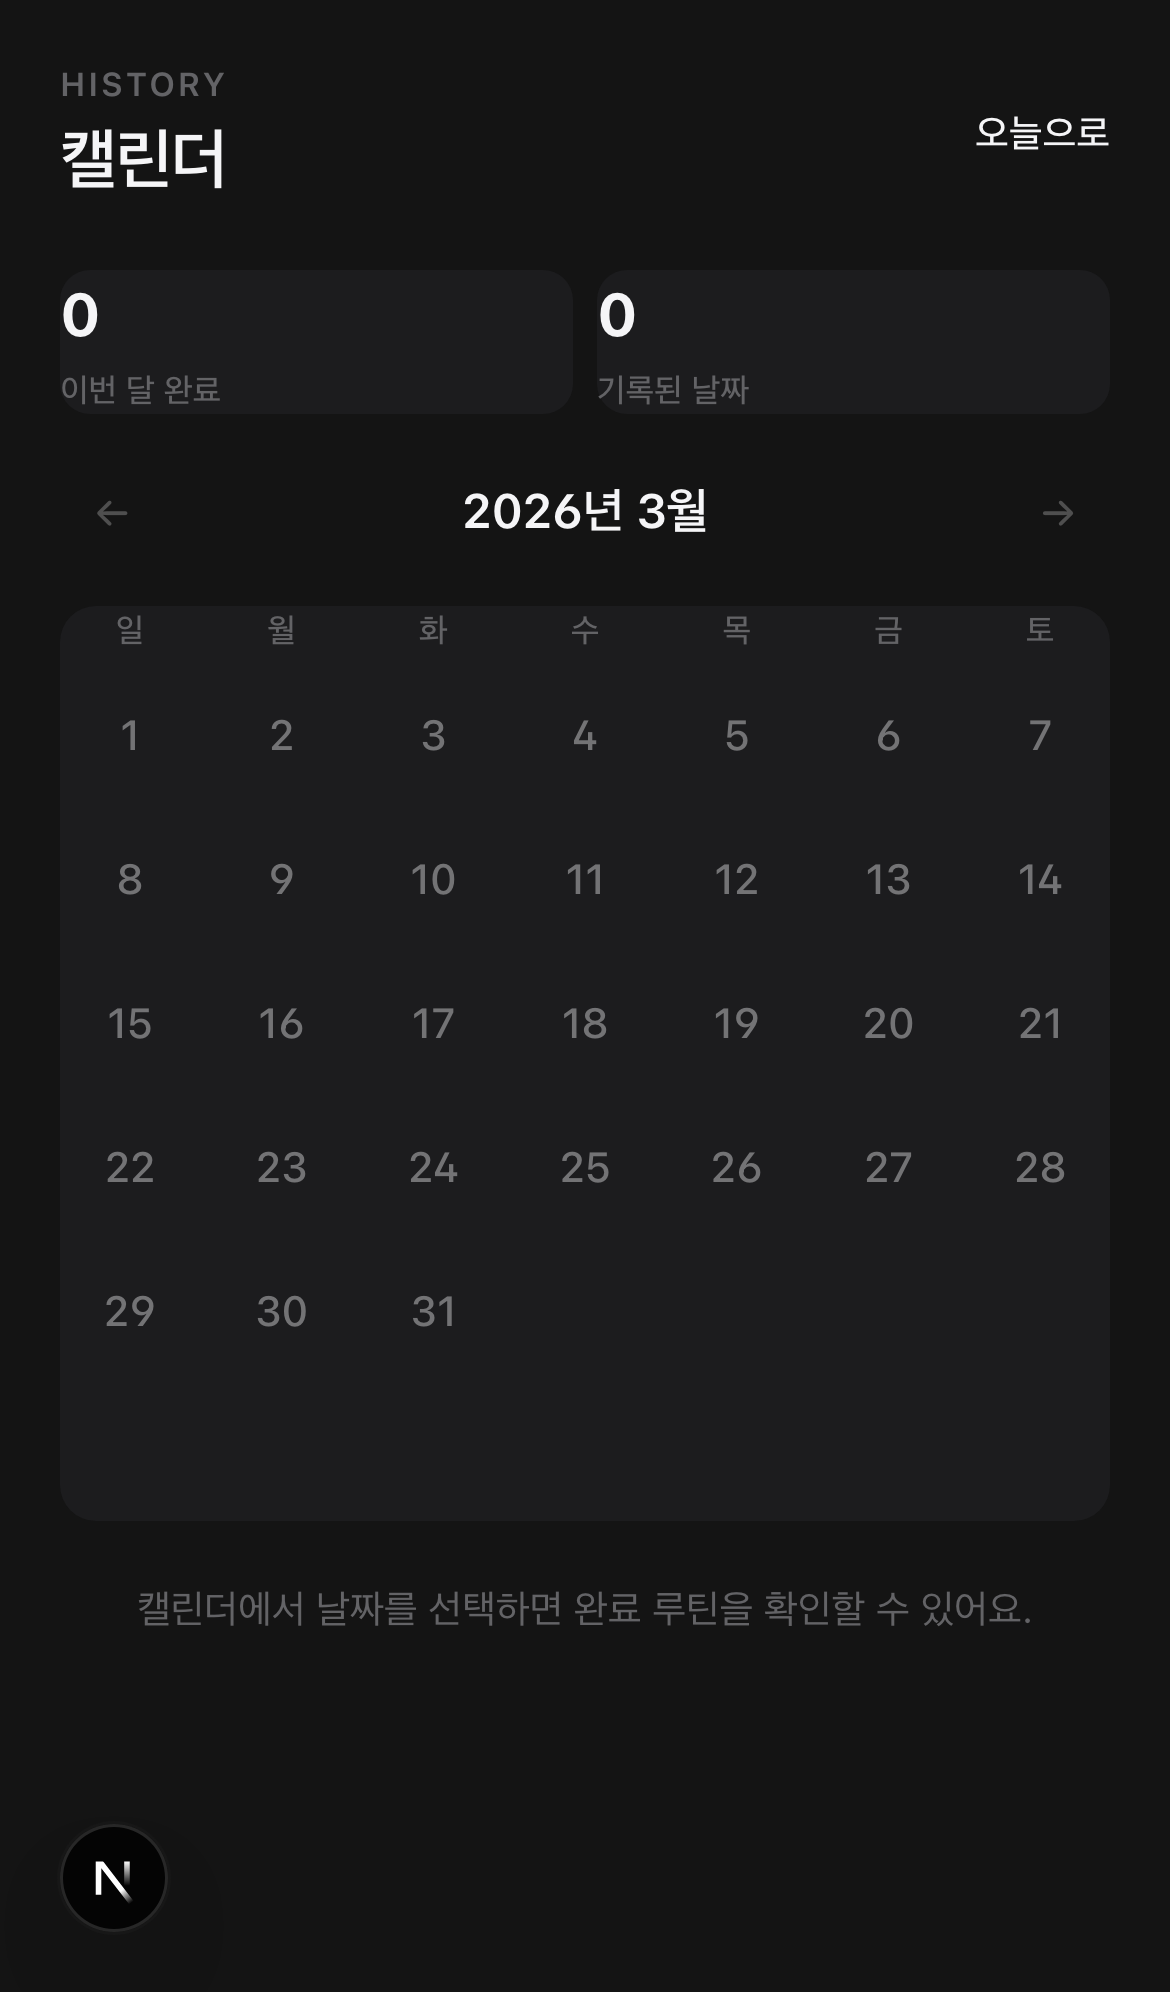
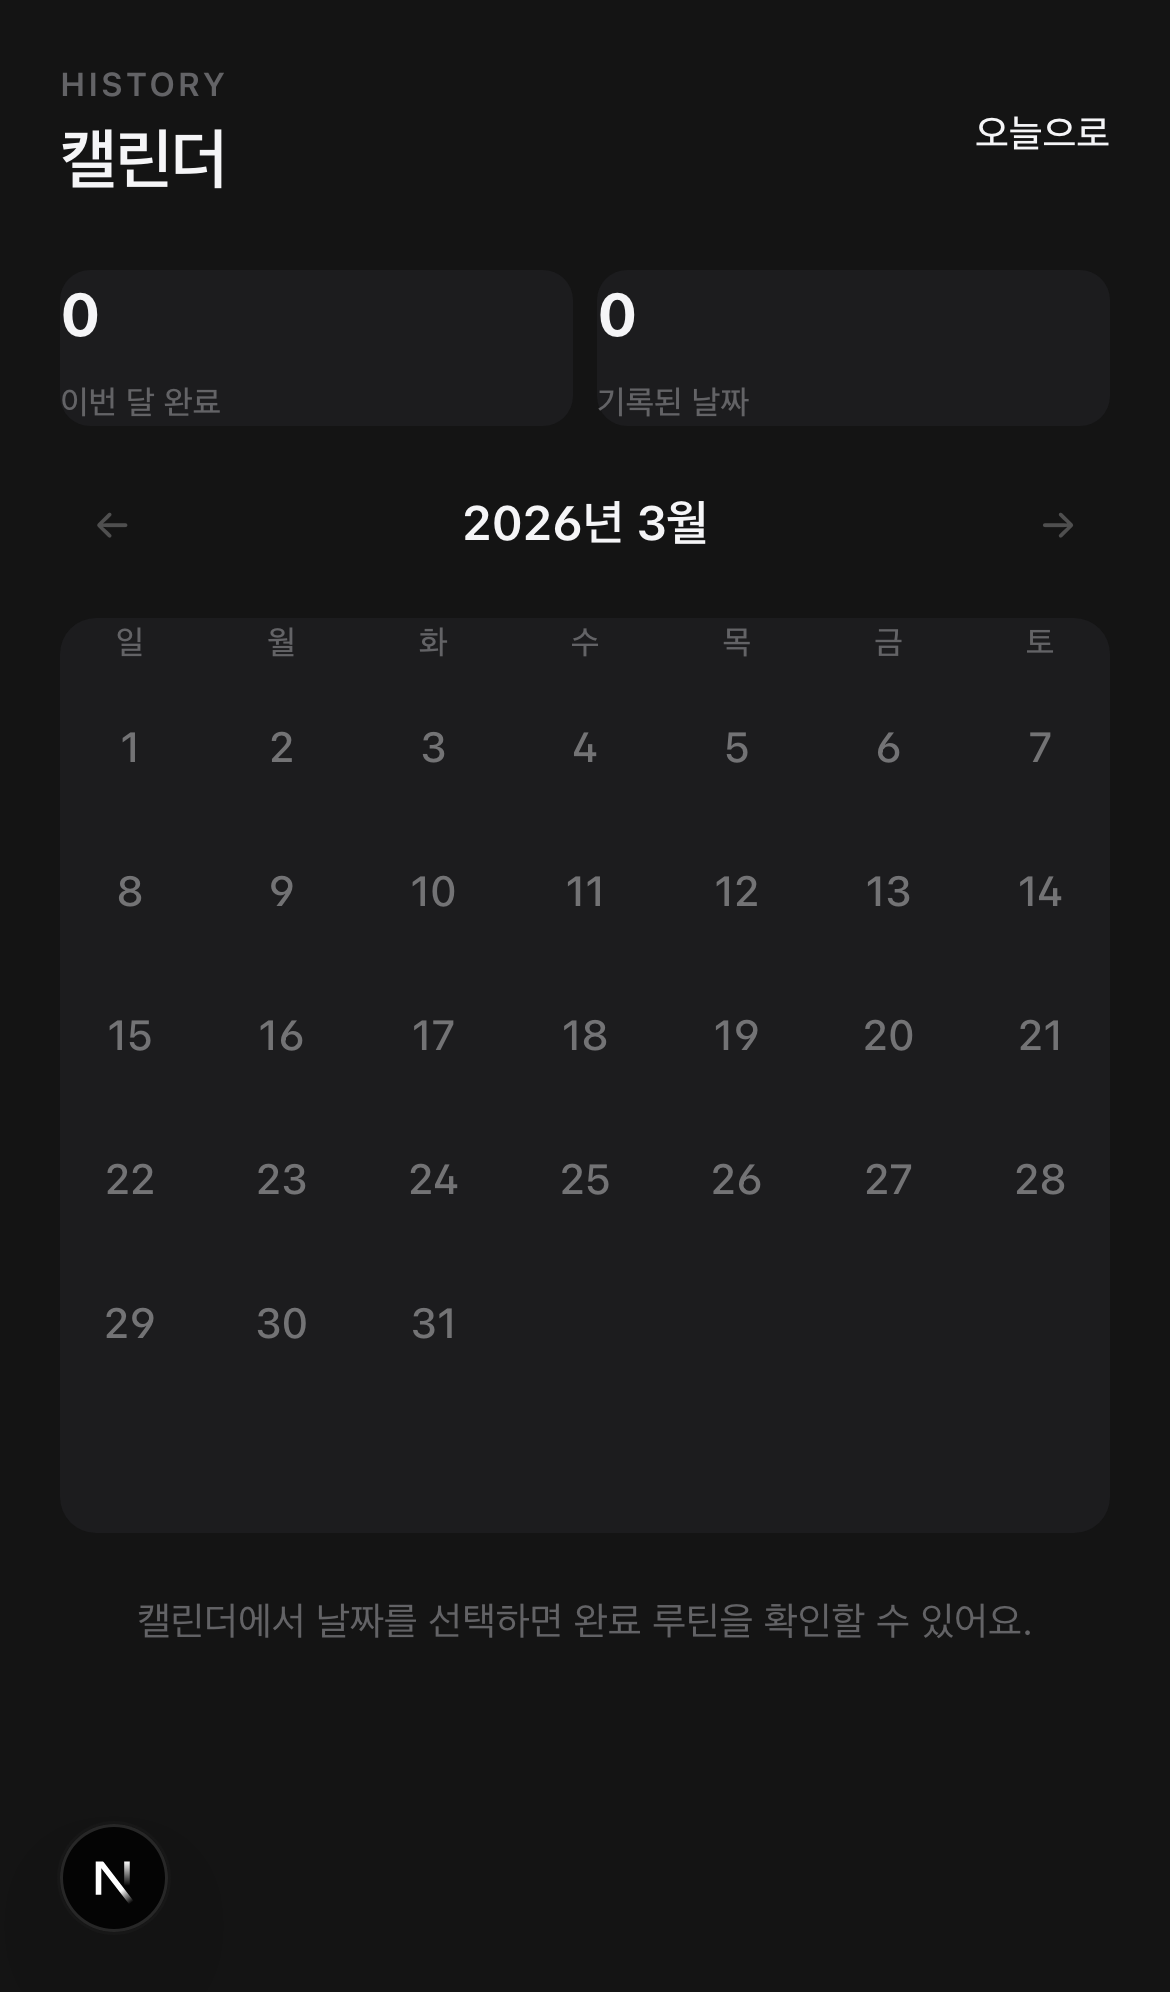
refactor: 내부 여백 개선 — 카드/아이템 패딩 증가, 타이틀 간격 토큰화
- card padding: 14/16px → 18/20px
- card-gap: 10px → 12px
- item padding: 12/14px → 14/16px
- tight(타이틀-서브): 4px → 6px
- mt-[2px] → mt-ds-tight 토큰화
- 전 테스트 87/87 통과

diff --git a/apps/web/src/app/calendar/page.tsx b/apps/web/src/app/calendar/page.tsx
@@ -116,7 +116,7 @@ export default function CalendarPage() {
               <p className="m-0 text-[11px] font-semibold tracking-[0.08em] text-ds-text-faint uppercase">
                 HISTORY
               </p>
-              <h1 className="mt-[2px] mb-0 text-[22px] font-semibold tracking-tight text-ds-text">
+              <h1 className="mt-ds-tight mb-0 text-[22px] font-semibold tracking-tight text-ds-text">
                 캘린더
               </h1>
             </div>
@@ -127,11 +127,11 @@ export default function CalendarPage() {
 
           {/* Summary stats */}
           <div className="grid grid-cols-2 gap-2">
-            <div className="bg-ds-surface rounded-ds-md p-[10px_12px] flex flex-col gap-[2px]">
+            <div className="bg-ds-surface rounded-ds-md py-ds-item-y px-ds-item-x flex flex-col gap-ds-tight">
               <span className="text-[20px] font-bold text-ds-text">{monthDoneCount}</span>
               <span className="text-[11px] text-ds-text-faint font-medium">이번 달 완료</span>
             </div>
-            <div className="bg-ds-surface rounded-ds-md p-[10px_12px] flex flex-col gap-[2px]">
+            <div className="bg-ds-surface rounded-ds-md py-ds-item-y px-ds-item-x flex flex-col gap-ds-tight">
               <span className="text-[20px] font-bold text-ds-text">{history.length}</span>
               <span className="text-[11px] text-ds-text-faint font-medium">기록된 날짜</span>
             </div>
@@ -169,7 +169,7 @@ export default function CalendarPage() {
           </div>
 
           {/* Calendar grid */}
-          <div className="bg-ds-surface rounded-ds-lg p-3">
+          <div className="bg-ds-surface rounded-ds-lg py-ds-card-y px-ds-card-x">
             <div className="grid grid-cols-7 gap-1">
               {['일', '월', '화', '수', '목', '금', '토'].map((w) => (
                 <div key={w} className="text-center text-ds-text-faint text-[11px] font-medium pb-1">
@@ -236,14 +236,14 @@ export default function CalendarPage() {
                     return (
                       <article
                         key={`${selectedDate}-${item.id}-${item.doneAt ?? ''}`}
-                        className="bg-ds-surface-strong rounded-ds-md p-[10px_12px] grid gap-ds-inline"
+                        className="bg-ds-surface-strong rounded-ds-md py-ds-item-y px-ds-item-x grid gap-ds-inline"
                       >
                         <div className="flex justify-between items-start gap-2">
                           <div>
                             <p className="m-0 text-[14px] font-medium text-ds-text">
                               {item.title ?? item.id}
                             </p>
-                            <p className="mt-[2px] mb-0 text-[12px] text-ds-text-faint">
+                            <p className="mt-ds-tight mb-0 text-[12px] text-ds-text-faint">
                               {item.doneAt ?? '시간 미기록'}
                             </p>
                           </div>

diff --git a/apps/web/src/app/friends/page.tsx b/apps/web/src/app/friends/page.tsx
@@ -101,7 +101,7 @@ export default function FriendsPage() {
             <p className="m-0 text-[11px] font-semibold tracking-[0.08em] text-ds-text-faint uppercase">
               SOCIAL
             </p>
-            <h1 className="mt-[2px] mb-0 text-[22px] font-semibold tracking-tight text-ds-text">
+            <h1 className="mt-ds-tight mb-0 text-[22px] font-semibold tracking-tight text-ds-text">
               친구 관리
             </h1>
             <p className="mt-1 mb-0 text-[13px] text-ds-text-muted">
@@ -148,7 +148,7 @@ export default function FriendsPage() {
                 {split.incomingPending.map((row) => (
                   <div
                     key={row.id}
-                    className="flex justify-between items-center bg-ds-surface-strong rounded-ds-md p-[10px_12px]"
+                    className="flex justify-between items-center bg-ds-surface-strong rounded-ds-md py-ds-item-y px-ds-item-x"
                   >
                     <span className="text-[13px] text-ds-text-muted">
                       요청자: {row.requester_id.slice(0, 8)}…
@@ -176,7 +176,7 @@ export default function FriendsPage() {
                 {split.outgoingPending.map((row) => (
                   <div
                     key={row.id}
-                    className="flex justify-between items-center bg-ds-surface-strong rounded-ds-md p-[10px_12px]"
+                    className="flex justify-between items-center bg-ds-surface-strong rounded-ds-md py-ds-item-y px-ds-item-x"
                   >
                     <span className="text-[13px] text-ds-text-muted">
                       대상: {row.addressee_id.slice(0, 8)}…
@@ -200,7 +200,7 @@ export default function FriendsPage() {
                 {split.accepted.map((row) => (
                   <div
                     key={row.id}
-                    className="flex items-center gap-ds-card-gap bg-ds-surface-strong rounded-ds-md p-[10px_12px]"
+                    className="flex items-center gap-ds-card-gap bg-ds-surface-strong rounded-ds-md py-ds-item-y px-ds-item-x"
                   >
                     <div className="w-7 h-7 rounded-ds-pill bg-ds-accent-soft shrink-0" />
                     <span className="flex-1 text-[13px] text-ds-text-muted">

diff --git a/apps/web/src/app/today/today-view.tsx b/apps/web/src/app/today/today-view.tsx
@@ -773,11 +773,11 @@ export function TodayView() {
 
         {/* Welcome Feedback */}
         {showWelcomeFeedback ? (
-          <Card variant="borderless" styles={{ body: { padding: '14px', background: 'var(--ds-color-accent-soft)' } }}>
+          <Card variant="borderless" styles={{ body: { padding: 'var(--ds-space-card-y) var(--ds-space-card-x)', background: 'var(--ds-color-accent-soft)' } }}>
             <strong className="block text-ds-accent-strong text-[13px] font-medium">
               로그인 완료! 오늘 해야 할 루틴부터 시작하세요.
             </strong>
-            <p className="mt-[2px] mb-0 text-ds-text-muted text-[12px]">
+            <p className="mt-ds-tight mb-0 text-ds-text-muted text-[12px]">
               지금 가능한 루틴을 상단에서 바로 인증할 수 있어요.
             </p>
           </Card>
@@ -898,7 +898,7 @@ export function TodayView() {
                       </div>
                     ) : (
                       <>
-                        <p className="mt-[2px] mb-0 text-[12px] text-ds-text-faint">
+                        <p className="mt-ds-tight mb-0 text-[12px] text-ds-text-faint">
                           인증 시간: {routine.timeRangeLabel}
                         </p>
                         {routine.proofImage ? (
@@ -981,7 +981,7 @@ export function TodayView() {
         </section>
 
         {/* Add Routine Section */}
-        <Card variant="borderless" styles={{ body: { padding: '14px' } }}>
+        <Card variant="borderless" styles={{ body: { padding: 'var(--ds-space-card-y) var(--ds-space-card-x)' } }}>
           <div className="flex justify-between items-center">
             <div>
               <p className="m-0 text-[11px] text-ds-text-faint font-medium">

diff --git a/apps/web/src/app/auth/page.tsx b/apps/web/src/app/auth/page.tsx
@@ -268,7 +268,7 @@ function AuthPageContent() {
           ].map((feature) => (
             <div
               key={feature.num}
-              className="grid grid-cols-[28px_1fr] items-center gap-2 p-[10px_12px] rounded-ds-sm bg-ds-surface"
+              className="grid grid-cols-[28px_1fr] items-center gap-2 py-ds-item-y px-ds-item-x rounded-ds-sm bg-ds-surface"
             >
               <span className="w-[22px] h-[22px] rounded-ds-pill bg-ds-accent-soft text-ds-accent grid place-items-center text-[11px] font-semibold">
                 {feature.num}

diff --git a/apps/web/src/components/ui/design-system.css b/apps/web/src/components/ui/design-system.css
@@ -96,11 +96,13 @@
   --ds-space-page-top: 20px;
   --ds-space-page-bottom: 48px;
   --ds-space-section-gap: 20px;
-  --ds-space-card-gap: 10px;
-  --ds-space-card-x: 16px;
-  --ds-space-card-y: 14px;
+  --ds-space-card-gap: 12px;
+  --ds-space-card-x: 20px;
+  --ds-space-card-y: 18px;
+  --ds-space-item-x: 16px;     /* 내부 아이템 좌우 */
+  --ds-space-item-y: 14px;     /* 내부 아이템 상하 */
   --ds-space-inline: 8px;
-  --ds-space-tight: 4px;
+  --ds-space-tight: 6px;
 
   --ds-ease: cubic-bezier(0.22, 1, 0.36, 1);
   --ds-duration: 0.2s;

diff --git a/apps/web/src/app/settings/page.tsx b/apps/web/src/app/settings/page.tsx
@@ -51,7 +51,7 @@ export default function SettingsPage() {
               <p className="m-0 text-[11px] font-semibold tracking-[0.08em] text-ds-text-faint uppercase">
                 SYSTEM
               </p>
-              <h1 className="mt-[2px] mb-0 text-[22px] font-semibold tracking-tight text-ds-text">
+              <h1 className="mt-ds-tight mb-0 text-[22px] font-semibold tracking-tight text-ds-text">
                 설정
               </h1>
             </div>

diff --git a/apps/web/src/app/globals.css b/apps/web/src/app/globals.css
@@ -62,6 +62,8 @@
   --spacing-ds-card-gap: var(--ds-space-card-gap);
   --spacing-ds-card-x: var(--ds-space-card-x);
   --spacing-ds-card-y: var(--ds-space-card-y);
+  --spacing-ds-item-x: var(--ds-space-item-x);
+  --spacing-ds-item-y: var(--ds-space-item-y);
   --spacing-ds-inline: var(--ds-space-inline);
   --spacing-ds-tight: var(--ds-space-tight);
 
